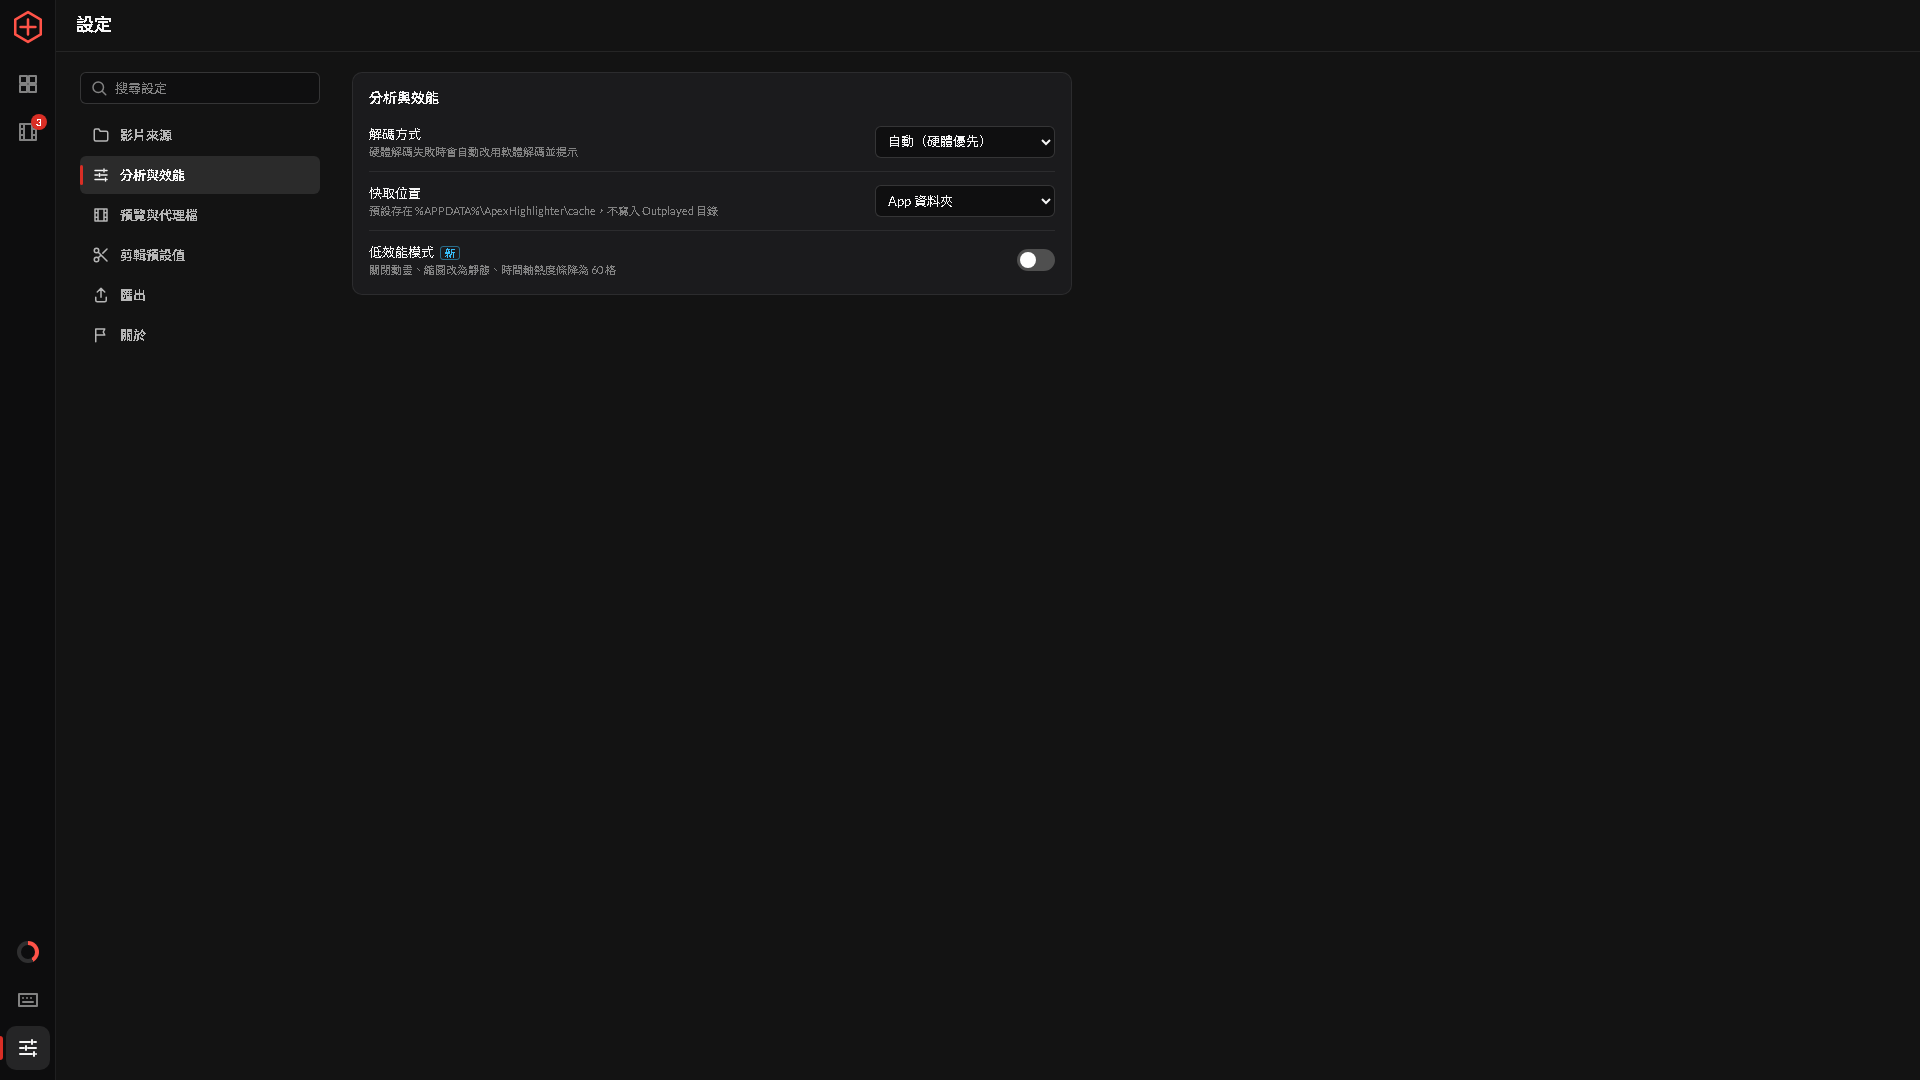
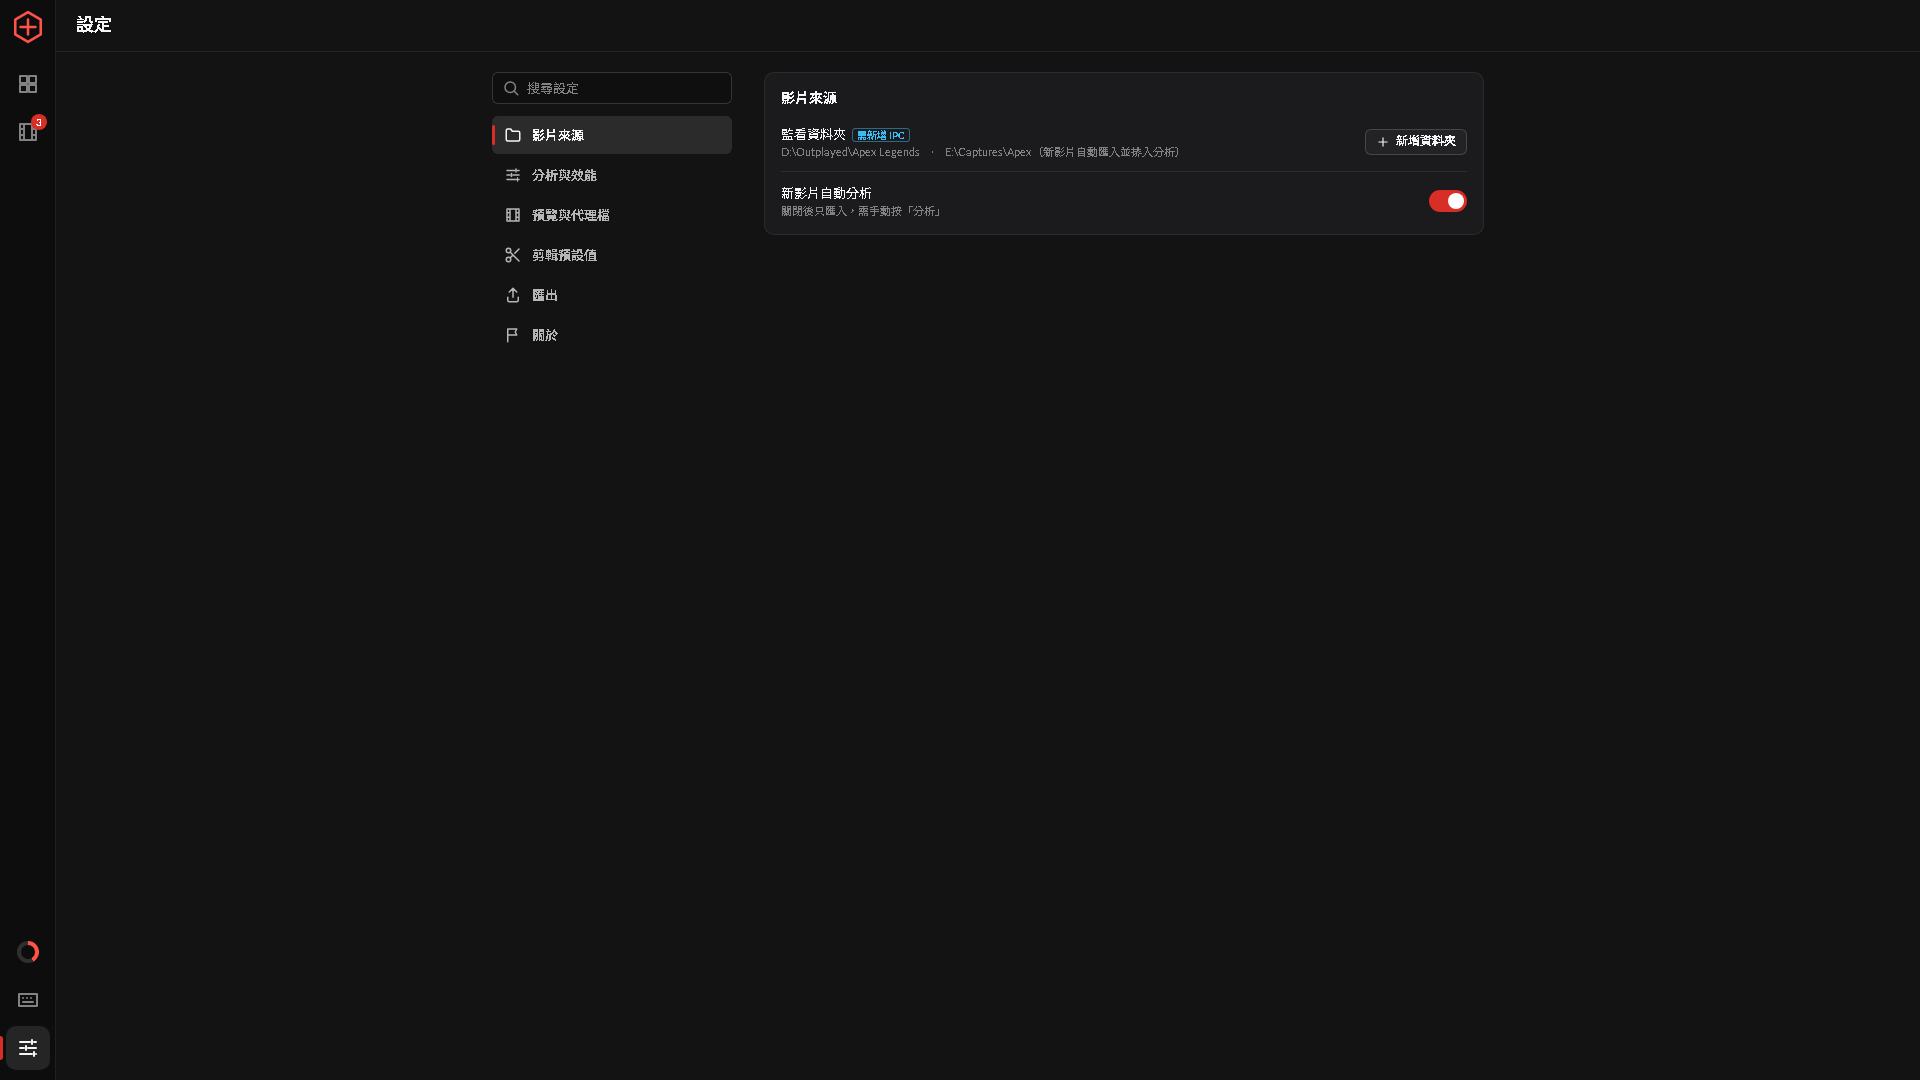
docs(ui): center the two-pane settings group; refresh settings screenshots

diff --git a/docs/design/ui-mock/css/app.css b/docs/design/ui-mock/css/app.css
@@ -328,7 +328,7 @@ kbd { font-family: var(--font-mono); font-size: 11px; padding: 1px 6px; border: 
 .sc-grid div { display: flex; justify-content: space-between; align-items: center; padding: 4px 0; border-bottom: 1px solid var(--line); }
 
 /* ---------- 設定 ---------- */
-.settings { flex: 1; min-height: 0; display: flex; gap: 32px; padding: 20px 24px 0; overflow: hidden; }
+.settings { flex: 1; min-height: 0; display: flex; justify-content: center; gap: 32px; padding: 20px 24px 0; overflow: hidden; }
 .set-nav { width: 240px; flex: none; display: flex; flex-direction: column; gap: 12px; }
 .set-nav .search { width: 100%; }
 .set-nav .search kbd { display: none; }
@@ -342,7 +342,7 @@ kbd { font-family: var(--font-mono); font-size: 11px; padding: 1px 6px; border: 
 .settings .wrap { flex: 1; max-width: 720px; min-width: 0; overflow-y: auto; padding-bottom: 40px; display: flex; flex-direction: column; gap: 16px; align-content: flex-start; }
 .setcard.hide, .setrow.hide { display: none; }
 @media (max-width: 899px) {
-  .settings { flex-direction: column; gap: 12px; padding: 12px 16px 0; }
+  .settings { flex-direction: column; justify-content: flex-start; gap: 12px; padding: 12px 16px 0; }
   .set-nav { width: 100%; flex-direction: row; align-items: center; }
   .set-nav .search { width: 200px; flex: none; }
   .set-cats { flex-direction: row; overflow-x: auto; }
